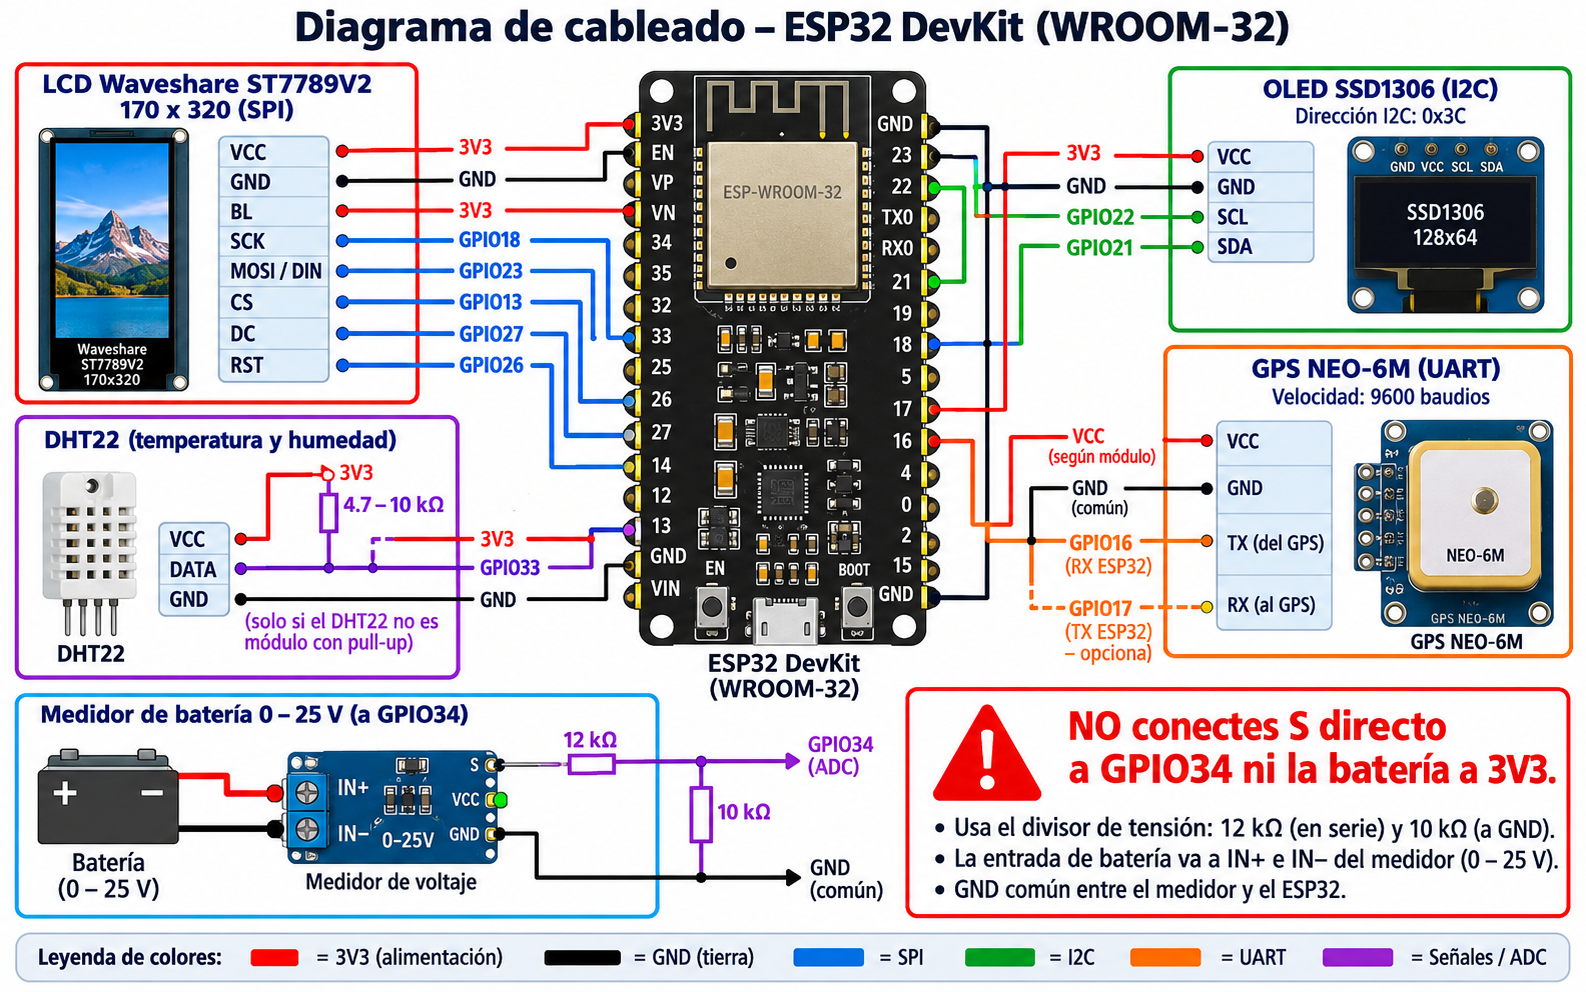
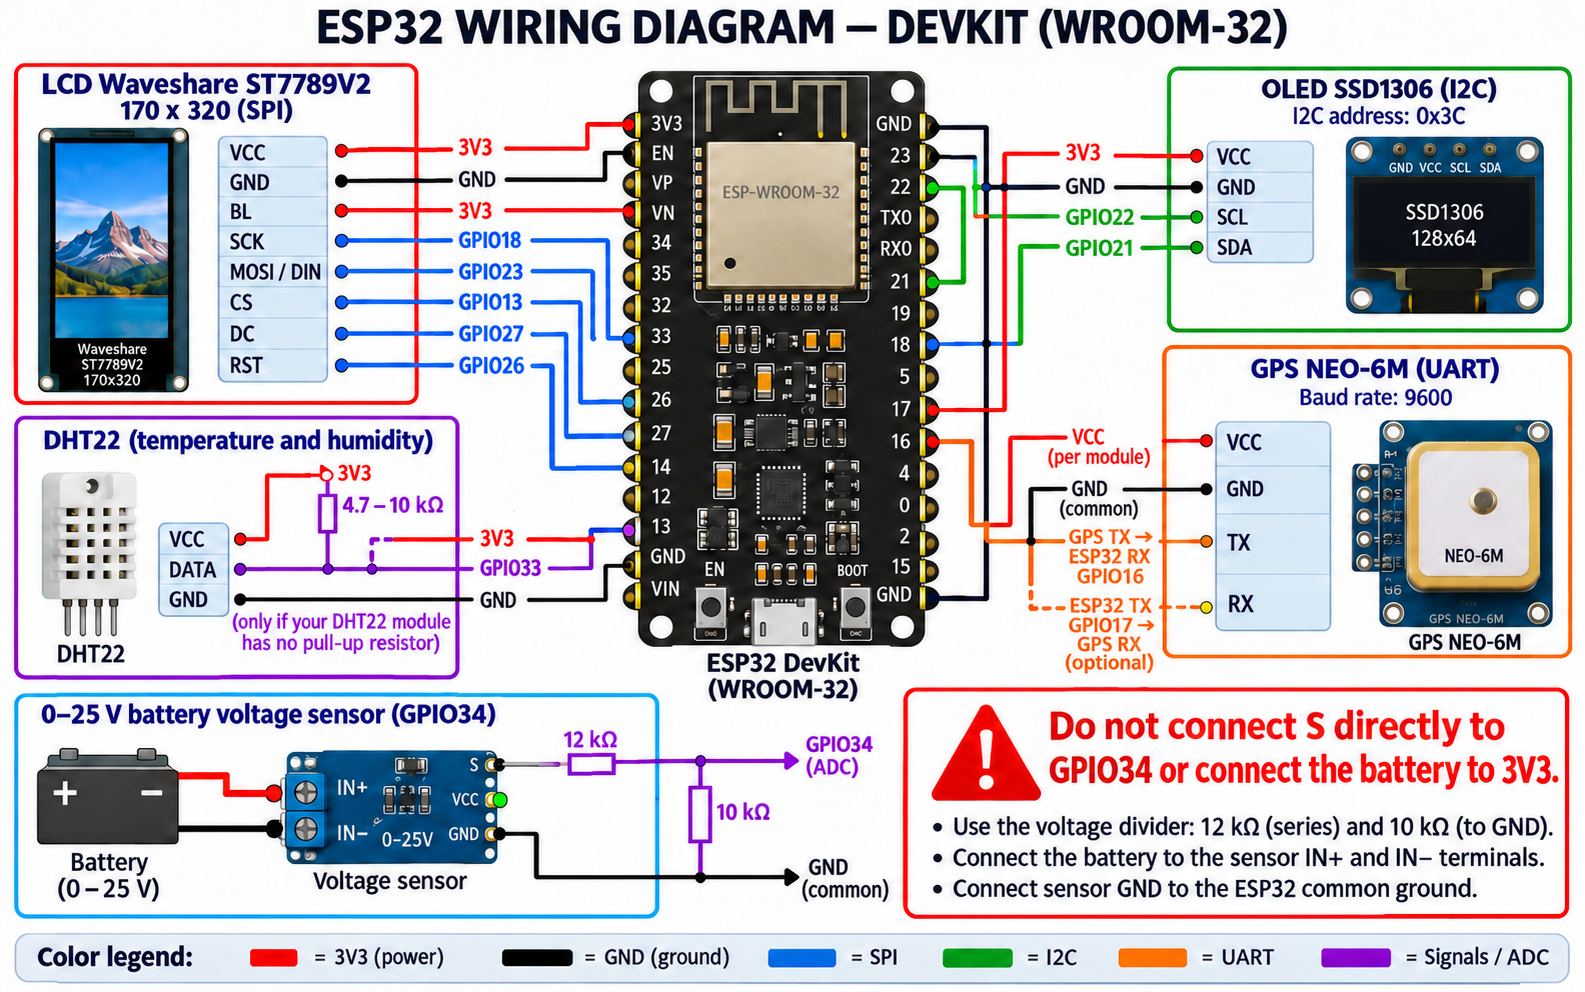
first commit

diff --git a/README.md b/README.md
@@ -48,9 +48,15 @@ The three full-featured versions share an API contract; C / ESP-IDF is the refer
 - **GPS:** u-blox NEO-6M, UART 9600 baud
 - **Battery voltage:** 0–25 V module (5:1 divider) + external 12 kΩ/10 kΩ divider into ADC1 GPIO34
 
-### Wiring and display references
+### Wiring diagrams and display mockup
 
 ![ESP32 wiring diagram](docs/visuals/diagrama-conexiones-esp32.png)
+
+![ESP32 centered between two solderless breadboard sections](docs/visuals/diagrama-conexiones-esp32-protoboard.png)
+
+The ESP32 sits between two separate breadboard sections so the displays can connect on the left and the sensors on the right. Each five-hole strip connects horizontally; the power rails connect vertically. Numbered rows on opposite sections are isolated unless a jumper explicitly joins them. Insulated wires that pass over a rail connect only at their marked endpoint holes.
+
+The left section uses rows 3/5/39/34/32 for LCD SCK/MOSI/CS/DC/RST and rows 7/9 for OLED SCL/SDA. The right section uses row 51 for DHT22 DATA, rows 34/32 for GPS TX/RX, row 55 for the divided ADC output, and row 58 for the voltage module's raw S signal. The shown cross-section jumpers join rows 3, 5, 7, 9, 51, and 55 only. Place the 12 kΩ resistor between right-side rows 58 and 55, the 10 kΩ resistor between right-side row 55 and ground, and the DHT22 4.7 kΩ pull-up between right-side row 51 and 3V3.
 
 ![Expected LCD and OLED screens](docs/visuals/mockup-displays-esp32.png)
 

diff --git a/arduino/README.md b/arduino/README.md
@@ -2,6 +2,16 @@
 
 Implementación para ESP32 DevKit/WROOM-32 clásico con LCD Waveshare ST7789V2 de 170 × 320, OLED SSD1306 de 128 × 64, sensor DHT22, GPS NEO-6M y lectura analógica de batería.
 
+## Diagramas y pantallas
+
+![Montaje del ESP32 centrado entre dos secciones de protoboard](../docs/visuals/diagrama-conexiones-esp32-protoboard.png)
+
+![Diagrama de conexiones del ESP32](../docs/visuals/diagrama-conexiones-esp32.png)
+
+![Vista de referencia de las pantallas LCD y OLED](../docs/visuals/mockup-displays-esp32.png)
+
+El montaje muestra las pantallas a la izquierda del ESP32 y los sensores a la derecha. El [README principal](../README.md#wiring-diagrams-and-display-mockup) describe las filas y resistencias. La imagen de las pantallas corresponde al diseño de las versiones con clima y servidor web; este sketch de Arduino muestra sensores y GPS, sin pronóstico.
+
 ## Compilar con Arduino CLI
 
 Arduino CLI permite preparar, compilar y subir el mismo sketch desde terminal o desde el terminal integrado de VS Code, sin extensión adicional. En macOS se puede instalar con Homebrew:

diff --git a/python/README.md b/python/README.md
@@ -7,6 +7,16 @@ Proyecto para un ESP32 DevKit/WROOM-32 que presenta voltaje de batería, tempera
 
 Los controladores de pantalla y el parser GPS están incluidos. No hay paquetes de terceros que instalar en la placa.
 
+## Diagramas y pantallas
+
+![Montaje del ESP32 centrado entre dos secciones de protoboard](../docs/visuals/diagrama-conexiones-esp32-protoboard.png)
+
+![Diagrama de conexiones del ESP32](../docs/visuals/diagrama-conexiones-esp32.png)
+
+![Vista esperada de las pantallas LCD y OLED](../docs/visuals/mockup-displays-esp32.png)
+
+El montaje muestra las pantallas a la izquierda del ESP32 y los sensores a la derecha. Las filas y resistencias del protoboard se detallan en el [README principal](../README.md#wiring-diagrams-and-display-mockup); los pines usados por MicroPython están en `config.py`.
+
 ## Pines predeterminados
 
 Los pines corresponden a un ESP32 DevKit/WROOM-32 común. Si tu placa es otra variante, revisa su pinout y cambia `config.py`.

diff --git a/c/README.md b/c/README.md
@@ -2,6 +2,16 @@
 
 Proyecto C para ESP-IDF 5.x y ESP32 clásico (DevKit/WROOM-32, Xtensa). No requiere tener la placa conectada para compilar; el archivo `.bin` se puede guardar y flashear cuando haya hardware disponible.
 
+## Diagramas y pantallas
+
+![Montaje del ESP32 centrado entre dos secciones de protoboard](../docs/visuals/diagrama-conexiones-esp32-protoboard.png)
+
+![Diagrama de conexiones del ESP32](../docs/visuals/diagrama-conexiones-esp32.png)
+
+![Vista esperada de las pantallas LCD y OLED](../docs/visuals/mockup-displays-esp32.png)
+
+El montaje coloca el ESP32 al centro, las pantallas a la izquierda y los sensores a la derecha. Consulta el [mapa de filas y resistencias](../README.md#wiring-diagrams-and-display-mockup) antes de cablear; los GPIO efectivos están en [`main/config.h`](main/config.h).
+
 ## Qué incluye
 
 - LCD Waveshare ST7789V2 de 170 × 320 por SPI, desplazamiento X 35.

diff --git a/rust/README.md b/rust/README.md
@@ -2,6 +2,16 @@
 
 Versión Rust del monitor de batería, DHT22 y GPS para las pantallas Waveshare ST7789V2 170 × 320 y SSD1306 128 × 64. Está configurada para el chip **ESP32 clásico** de una placa DevKit/WROOM-32 y usa ESP-IDF con Rust `std` mediante `esp-idf-svc`.
 
+## Diagramas y pantallas
+
+![Montaje del ESP32 centrado entre dos secciones de protoboard](../docs/visuals/diagrama-conexiones-esp32-protoboard.png)
+
+![Diagrama de conexiones del ESP32](../docs/visuals/diagrama-conexiones-esp32.png)
+
+![Vista esperada de las pantallas LCD y OLED](../docs/visuals/mockup-displays-esp32.png)
+
+El montaje muestra las pantallas a la izquierda del ESP32 y los sensores a la derecha. El [README principal](../README.md#wiring-diagrams-and-display-mockup) describe las filas y resistencias; los GPIO de esta versión se declaran en `src/main.rs`.
+
 ## Pines
 
 | Función | GPIO |
